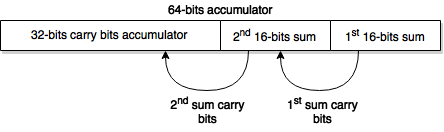
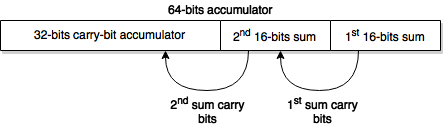
Efficient computation of the Internet checksum: explaination

Changed region(s): [[0.0586, 0.2121, 0.4392, 0.3333]]

diff --git a/4. Implementation details.md b/4. Implementation details.md
@@ -445,7 +445,7 @@ ones' complement. The ones' complement of a number is its binary negation
 `NOT([a, b] +' [c, d] +' [e, f] +' [g, 0])`
 
 The ones's complement addition (the `+'` operator) is the traditional addition,
-but with the carry bit added back to the resulting sum. As an example, here is
+but with the carry-bit added back to the resulting sum. As an example, here is
 the 16-bits ones' complement binary addition of 1111 1011 1101 1110 and
 1000 1001 1111 0001:
 
@@ -461,7 +461,7 @@ uint16_t *p = (uint16_t *) data;
 uint32_t sum = 0;
 for (int i = 0; i < size / sizeof (uint16_t); i++) {
     sum += p[i];
-    sum = (sum & 0xFFFF) + (sum >> 16); // Reports and sums the carry bit.
+    sum = (sum & 0xFFFF) + (sum >> 16); // Adds the carry-bit to the sum.
 }
 
 // If the checksum is computed on an odd number of bytes, computes the last pair
@@ -476,15 +476,22 @@ uint16_t checksum = (uint16_t) ~sum;
 
 ### Efficient computation of the Internet checksum
 
-The reduce the cost of computing the checksum, the framework does not use the
-algorithm presented in the preceeding paragraph. Instead, the checksum is
-computed using a more efficient algorithm based on techniques and properties of
-the ones' complement addition that are featured in [RFC1071].
+The reduce the cost of computing the checksum, I do not use the algorithm
+presented in the preceeding paragraph. Instead, the checksum is computed using
+a more efficient algorithm based on techniques and properties of the ones'
+complement addition that are featured in [RFC1071].
 
-Instead adding 16-bits and adding the carry bit at each iteration, I use a
-64-bits integer as sum's accumulator to computes two 16-bits sums at the same
-time. The 32 mosts significant bits of the 64-bits accumulator will accumulate
-carry bits while the 32 least significant bits will accumulate two 16 bits sums:
+* First, in place of adding 16-bits of data at a time, I compute two 16-bits
+  sums on 32-bits of data simultaneously. The sum are then added together to 
+  produce the final sum.
+* Secondly, in place of processing the carry-bits at each iteration, I keep
+  adding them in an accumulator, and I only add them at once to the final sum
+  afterwards.
+
+Both of these optimisations can be cleverly engineered together by using a
+single 64-bits integer. The 32 mosts significant bits of the 64-bits accumulator
+will accumulate carry-bits while the 32 least significant bits will accumulate
+two 16-bits sums:
 
 ![64-bits ones's complement accumulator](img/64_bits_accumulator.png)
 
@@ -495,34 +502,35 @@ The following (simplified) algorithm computes the ones' complement sum using a
 uint32_t *p = (uint32_t *) data;
 uint64_t sum = 0; // The 64-bits accumulator.
 
-// Sums the data, 32-bits a a time.
+// Sums the data, 32-bits a a time. A each iteration, the first 2 bytes of
+// the 32-bits integer are added to the second sum, while the last 2 bytes are
+// added to the first sum.
 for (int i = 0; i < size / sizeof (uint32_t); i++)
     sum += p[i];
 
-// Sums the two 16 bits ones' complement sums and the carry bits together.
+// Sums the two 16 bits ones' complement sums and the carry-bits together.
 do
     sum = (sum >> 16) + (sum & 0xFFFF);
 while (sum >> 16);
 ```
 
-![64-bits accumulator carry bits](img/64_bits_accumulator_carry_bits.png)
+> **Note**
+> The actual algorithm is slightly more complicated as this one assumes that the
+> data hold on a multiple of 4 bytes. The actual algorithm has also to deal with
+> memory alignment and endianness.
 
-    //
-    // +-----------------------------------+-----------------+-----------------+
-    // |   32 bits carry bits accumulator  | 2nd 16 bits sum | 1st 16 bits sum |
-    // +-----------------------------------+-----------------+-----------------+
-    // \-----------------------------------------------------------------------/
-    //                            64 bits accumulator
-    //
-    // It's not a problem that the least significant 16 bits sum produces a
-    // carry bit as ones' complement addition is commutative and as this carry
-    // bit will be added to the second sum, which will be summed with first one
-    // later.
-    //
-    // The algorithm then adds the 32 bits carry bits accumulator to the sum of
-    // the two 16 bits sums to get the final sum..
-    //
-    // [1]: http://tools.ietf.org/html/rfc1071
+It is a little bit puzzling to understand why and how this algorithm works. It
+has to do with two properties of the ones' complement addition:
+
+1. The ones' complement addition is commutative and associative. That's why you
+   can compute two sums at a time.
+2. The carry-bit addition being a simple addition, it can be deferred.
+   Carries of the first sum are added to the second sum, while carries of the
+   second sum are added to the carry-bit accumulator. Both will be added to the
+   final sum, meaning that they will not be "lost".
+
+![64-bits accumulator carry-bits](img/64_bits_accumulator_carry_bits.png)
+
 
 ### Pre-computed checksums
 
